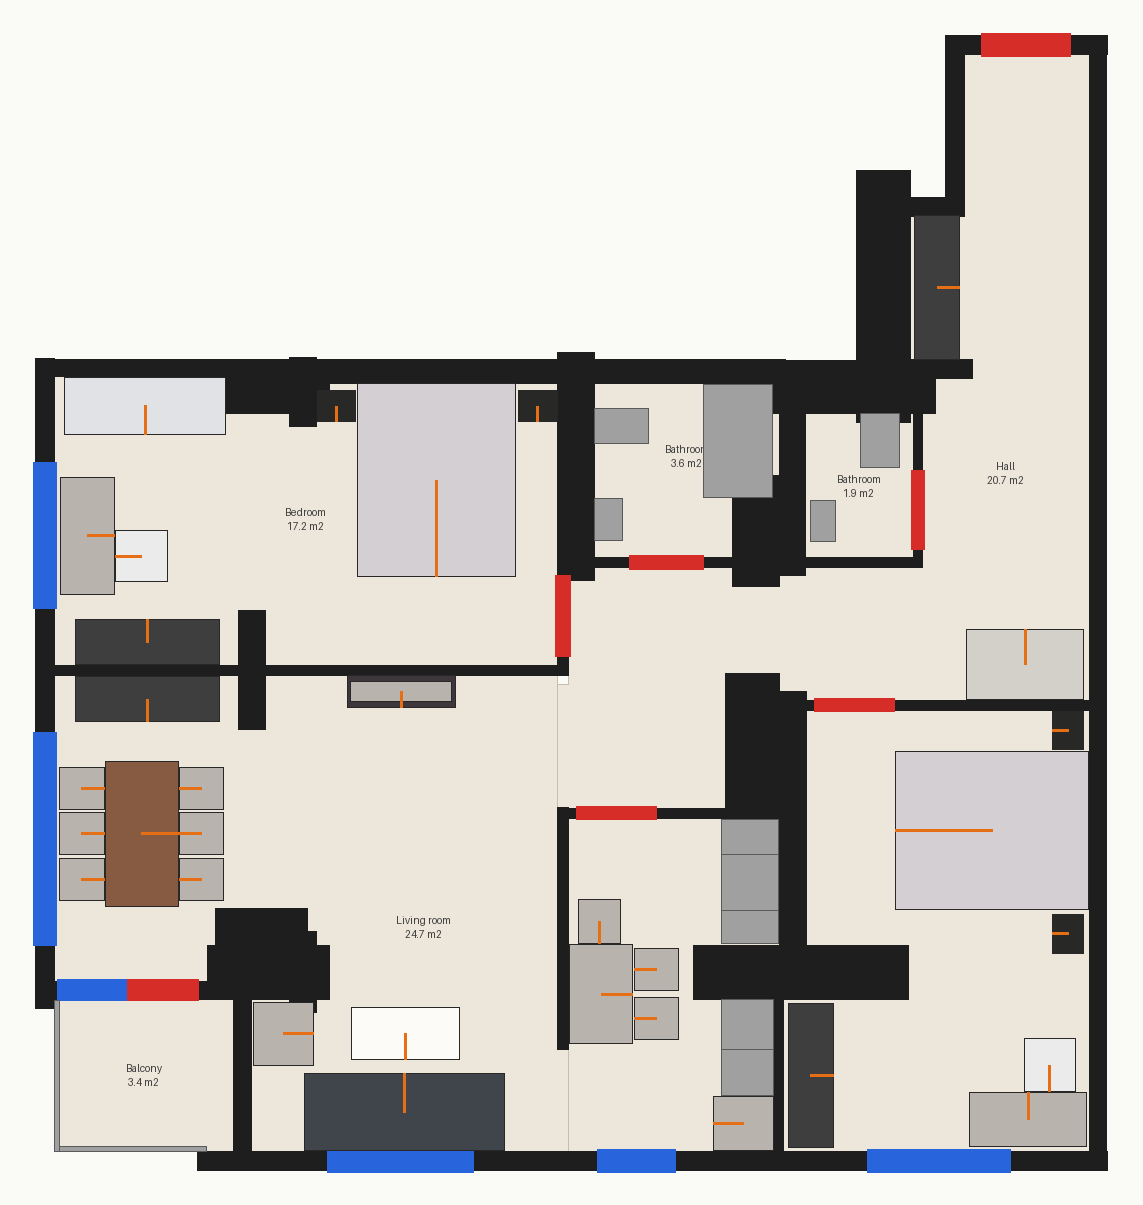
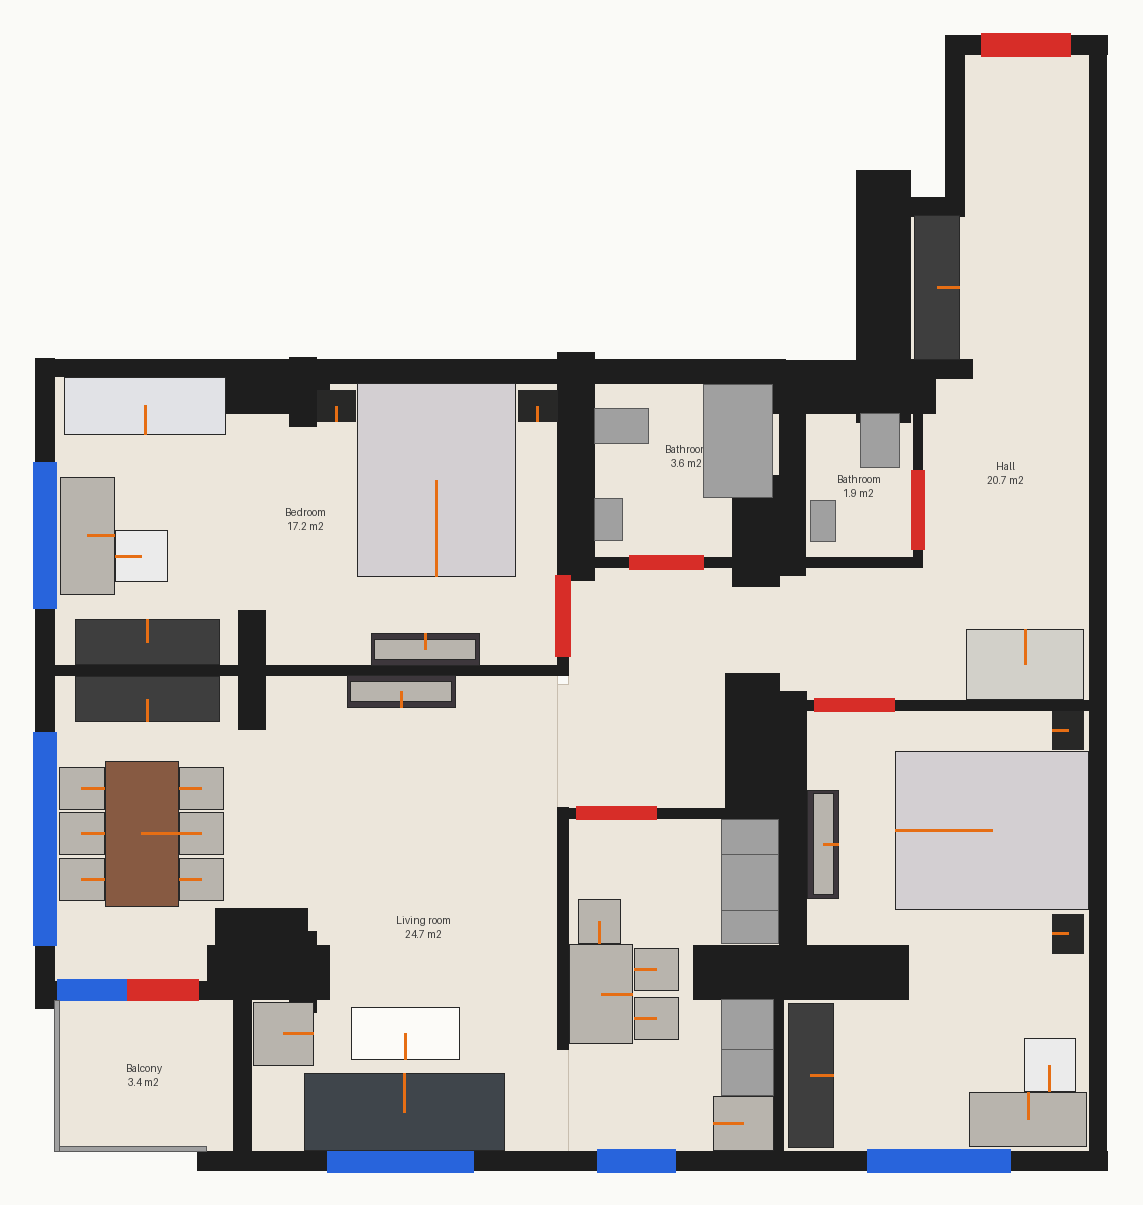
Building 3 types 7 and 9 after their fresh re-checks: type 9's bedroom TVs stand on units clear of the door swings, type 7's balcony railing reaches the pylon; each flat's NOTES.md opens with its current state
Claude-Session: https://claude.ai/code/session_016nsJCVbn8RwUeGLKUNLAhe

Changed region(s): [[0.7043, 0.6448, 0.7349, 0.7676], [0.3062, 0.522, 0.4287, 0.5527]]

diff --git a/apartments/komitas-b3-t10/NOTES.md b/apartments/komitas-b3-t10/NOTES.md
@@ -1,5 +1,12 @@
 # Komitas Park · Building 3 · Type 10 (b3-t10)
 
+## Current state (2026-10-03 13:45 +04; read this first, the sections below are history)
+- As drawn: 19 pieces. Deviations: dining set shifted ~0.17 m east (sofa pushed 0.19 m east with it); the TV stands
+  on a TV unit. Doors open as the plan draws them.
+- Build: faults 2 (facade pylons "not on a room edge"; walls right), 19/19. Audit: 1 fault, plan-inherent (balcony
+  door to bedroom door route at the drawn bed's foot). Styled: option.styled.json (made 13:14 before the door
+  swings; same 1 fault).
+
 Plan: `experimental/komitas-plans/b3-t10.png` (1684 x 1190), printed total 47.6 m2, 2 rooms (flat No. 4 on the plan).
 `trace.svg` is the "As drawn" option: walls, rooms, openings, fixtures and the plan's own furniture, every drawn piece.
 
@@ -105,3 +112,8 @@ timing: START=1791017328 END=1791018501
   balcony-bedroom door to the bedroom door. The drawn bed's foot ends 0.65 m from the wall at the bedroom door,
   whose swing the designer reserves; the bed alone reproduces it (a 3 cm narrower bed does not help), the empty
   shell passes. Styled (option.styled.json, made before the door swings) has the same one fault.
+- 13:43 fresh re-check (independent-verifier): walls, columns, doors (all 5 hinges and rooms), windows and fixtures
+  match; furniture all present. Remaining low items: the sofa sits 0.19 m east of where it is drawn (settle pushed it
+  clear of the pulled-out east dining chairs); secondary partitions come out 0.07 m thick against ~0.105 m drawn
+  (faces within 1-2 px; wall research). Correction: the bathroom dimension reads 2200, not 2300; the plan is
+  consistent (the "plan error" note above is a misreading).

diff --git a/apartments/komitas-b3-t8/NOTES.md b/apartments/komitas-b3-t8/NOTES.md
@@ -1,5 +1,14 @@
 # Komitas Park, building 3, type 8 (b3-t8)
 
+## Current state (2026-10-03 13:45 +04; read this first, the sections below are history)
+- As drawn: 23 pieces. Deviations from the plan: dining set shifted ~0.27 m east, ~0.18 m north and 7 of the 8 drawn
+  chairs (the south-east one stood in the balcony door's swing); living wall TV stands on a TV unit; bedroom wall TV
+  left out (a unit leaves 0.32 m past the bed's foot, the only way to the desk; the editor cannot wall-mount a TV);
+  bedroom bed is the 2.03 m teak bed. Doors open as the plan draws them.
+- Build: faults 0, 23/23. Audit: 2 faults, plan-inherent (hall routes past the door swings; same on the empty shell).
+- Open: the arc at the hall wardrobe's end (758-792 x 421-444) may be a rounded end shelf, not modelled.
+- Styled: pending (designer usage limit until 16:04).
+
 The plan is labelled "Bn. 2": 60.9 m2, 2 rooms. It is `experimental/komitas-plans/b3-t8.png` (1684 x 1190), copied here as `source.png`, which git excludes. The label file `labels/b3-t8.json` is an ungraded held-out reading. I used it only as a starting point and checked every box against the image.
 
 ## Scale

diff --git a/apartments/komitas-b3-t7/NOTES.md b/apartments/komitas-b3-t7/NOTES.md
@@ -1,5 +1,14 @@
 # Komitas Park · Building 3 · Type 7 (b3-t7), "As drawn"
 
+## Current state (2026-10-03 13:45 +04; read this first, the sections below are history)
+- As drawn: 30 pieces. Deviations from the plan: dining set shifted ~0.16 m east, ~0.14 m south (chairs pulled clear
+  of the table); bedroom 4 wall TV and its unit left out (walk past the bed); hall L-sofa = sofa + armchair; balcony
+  floor meets the bedroom-5 wall, its outer edge and railing 5 px in (railing runs to the pylon). Doors open as the
+  plan draws them. Fresh re-check 13:45: CONFIRMED with caveats (walls, columns, doors, windows, fixtures match).
+- Build: faults 4 ("not on a room edge", corner blocks; walls right), 30/30 picked. Audit: 7 faults, all
+  plan-inherent hall routes (door swings into the 1.1 m hall; the empty shell has the same 7).
+- Styled: pending (designer usage limit until 16:04).
+
 Plan: `experimental/komitas-plans/b3-t7.png` (1190 x 1684, portrait), copied to `source.png` (git-excluded).
 `trace.svg` is in the plan's own pixels; build: `uv run --project harness python apartments/_svg/build.py apartments/komitas-b3-t7`.
 

diff --git a/apartments/komitas-b3-t9/NOTES.md b/apartments/komitas-b3-t9/NOTES.md
@@ -1,5 +1,13 @@
 # Komitas Park · Building 3 · Type 9 (b3-t9)
 
+## Current state (2026-10-03 13:45 +04; read this first, the sections below are history)
+- As drawn: 37 pieces. Deviations from the plan: the three wall TVs stand on TV units (bedroom 5's unit 8 px west,
+  bedroom 4's 7 px south, clear of their doors' swings: the editor cannot wall-mount a TV), hall corner seat left
+  out, the dining table's two end chairs left out (see the trace comment); hall sofa is a settee. Doors open as the
+  plan draws them. Fresh re-check 13:44: walls, columns, doors, windows, fixtures match.
+- Build: faults 0, 37/37. Audit: 0 faults.
+- Styled: pending (designer usage limit until 16:04).
+
 Plan `experimental/komitas-plans/b3-t9.png` (1684 x 1190), printed 95.8 m2, 3 rooms. Main trace = the plan's
 furniture as drawn (`data-option-name="As drawn"`).
 
